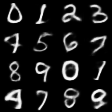
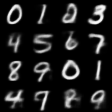
Updated Docs/ReadME/Cargo.toml (#38)

diff --git a/src/nn/mod.rs b/src/nn/mod.rs
@@ -3,16 +3,22 @@
 //! This module provides the core building blocks for constructing and
 //! training neural networks, including layers, activation functions,
 //! parameter initialisation, tensor reshaping, and sampling.
+//!
 //! ## Modules
 //!
 //! - [`activation`] - Activation functions and activation layers.
+//! - [`builder`] - Intuative builder for networks.
+//! - [`conv`] - Convolutional layer.
 //! - [`flatten`] - A layer for flattening tensors.
 //! - [`init`] - Parameter initialisation methods.
 //! - [`linear`] - Linear (fully connected) layers.
 //! - [`network`] - Neural network construction and management.
+//! - [`padding`] - Padding layer.
+//! - [`pooling`] - Pooling layer.
 //! - [`reshape`] - Layers for reshaping tensors.
 //! - [`sampling`] - Sampling layers used by probabilistic models such as VAEs.
 //! - [`softmax`] - Softmax activation and related functionality.
+//! - [`upsample`] - Upsampling layer.
 use crate::tensor::Tensor;
 use std::io::{self, Write};
 
@@ -30,11 +36,17 @@ pub mod sampling;
 pub mod softmax;
 pub mod upsample;
 
+pub use builder::NetworkBuilder;
+pub use network::Network;
+
 pub type Linear = linear::LinearLayer;
 pub type Conv2d = conv::Conv2DLayer;
 pub type Flatten = flatten::FlattenLayer;
 pub type Reshape = reshape::ReshapeLayer;
 pub type Softmax = softmax::SoftmaxLayer;
+pub type MaxPool2d = pooling::MaxPool2DLayer;
+pub type Pad2d = padding::Pad2DLayer;
+pub type Upsample2d = upsample::Upsample2DLayer;
 
 /// The common interface every layer implements
 ///
@@ -57,7 +69,7 @@ pub trait Layer {
     /// [`Layer::get_params`]. Used by optimiser to apply update
     fn set_params(&mut self, params: Vec<Tensor>);
 
-    ///Returns the layer's trainable parameters. Parameterless layers
+    /// Returns the layer's trainable parameters. Parameterless layers
     /// return an empty vector
     fn get_params(&self) -> Vec<Tensor>;
 

diff --git a/src/lib.rs b/src/lib.rs
@@ -27,7 +27,7 @@
 //! # Modules
 //!
 //! - [`tensor`] - the core `Tensor` type: matmul, permute, elementwise maps, broadcasting.
-//! - [`nn`] - layers, the [`NetworkBuilder`] and the [`nn::network::Network`] container.
+//! - [`nn`] - layers, the [`nn::NetworkBuilder`] and the [`nn::Network`] container.
 //! - [`loss`] - MSE, cross-entropy, and KL divergence.
 //! - [`optimiser`] - the Adam optimiser.
 //! - [`data`] - dataset loaders (MNIST).

diff --git a/README.md b/README.md
@@ -6,7 +6,7 @@ A neural network library built from scratch in Rust, designed to understand deep
 
 mentats is an educational framework implementing core neural network operations without external libraries. Every operation is implemented from first principles.
 
-**Current Milestone:** Convolutional Conditional VAE (CNN VAE) on MNIST. Combines the convolutional feature extraction with nearest neighbour upsampling and convolutional decoding to generate class defined digits ($0\rightarrow 9$) from random latent vectors $z \sim \mathcal{N}(0, I)$
+**Current Milestone:** Batched Convolutional Conditional VAE (Batched CNN CVAE) on MNIST. Combines 4D mini-batch tensor processing (batch size 128), multi-stage convolutional feature extraction, `im2col`/`col2im` GEMM-based convolutions, nearest-neighbour upsampling, and class-conditioned generation ($0\rightarrow 9$) from random latent vectors $z \sim \mathcal{N}(0, I)$.
 
 <p align="center">
 <img src="images/final_showcase_grid_4x4.png" alt="Generated 8s" width="300">
@@ -15,7 +15,9 @@ mentats is an educational framework implementing core neural network operations 
 
 _(Left: 4x4 class-conditioned generation showcase covering classes 0–9; Right: 16 distinct styles of digit 8 sampled across the latent space showing stroke variations)_
 
-**Previous Milestone:** Convolutional classification on MNIST at **97.69%** accuracy
+**Previous Milestone:** Convolutional Conditional VAE (CNN CVAE) on MNIST with sample-by-sample training.
+
+**Earlier Milestone:** Convolutional classification on MNIST at **97.69%** accuracy
 
 **Earlier Milestone:** Conditional VAE (CVAE) on MNIST, generates digits of a chosen class from a random latent vector, using free-bits KL to avoid posterior collapse
 
@@ -67,7 +69,58 @@ t-SNE preserves the local neighbourhood structure and gives clearer visual on th
 
 ## Network Architecture
 
-**CNN CVAE (Convolutional Conditional VAE)**
+**Batched CNN CVAE (Convolutional Conditional VAE with Mini-Batching)**
+- **Convolutional Encoder**:
+```
+Input ([batch, 784])
+  └─ ReshapeLayer ([batch, 1, 28, 28])
+  └─ Conv2DLayer (1 → 16 channels, 3x3 kernel, Kaiming normal)
+  └─ ReLU
+  └─ MaxPool2DLayer (2x2 pool, stride 2 → [batch, 16, 13, 13])
+  └─ Conv2DLayer (16 → 32 channels, 3x3 kernel, Kaiming normal)
+  └─ ReLU
+  └─ MaxPool2DLayer (2x2 pool, stride 2 → [batch, 32, 5, 5])
+  └─ FlattenLayer ([batch, 800])
+```
+- **Dense Latent Head**:
+```
+Concat [Conv Features (800), One-Hot Label (10)]
+  └─ LinearLayer (810 → 20; mu, log_var; latent_dim=10)
+  └─ GaussianSampler (reparameterization trick)
+```
+- **Convolutional Decoder**:
+```
+Concat [Latent z (10), One-Hot Label (10)]
+  └─ LinearLayer (20 → 16 x 7 x 7 = 784)
+  └─ ReshapeLayer ([batch, 16, 7, 7])
+  └─ ReLU
+  └─ Upsample2DLayer (2x nearest-neighbor → [batch, 16, 14, 14])
+  └─ Pad2DLayer (pad 1 → [batch, 16, 16, 16])
+  └─ Conv2DLayer (16 → 16 channels, 3x3)
+  └─ ReLU
+  └─ Upsample2DLayer (2x nearest-neighbor → [batch, 16, 32, 32])
+  └─ Pad2DLayer (pad 1 → [batch, 16, 34, 34])
+  └─ Conv2DLayer (16 → 8 channels, 3x3 → [batch, 8, 32, 32])
+  └─ ReLU
+  └─ Pad2DLayer (pad 1 → [batch, 8, 34, 34])
+  └─ Conv2DLayer (8 → 1 channel, 3x3 → [batch, 1, 28, 28])
+  └─ FlattenLayer ([batch, 784])
+```
+Constructed cleanly using the fluent `Network::builder()` API:
+```rust
+let mut conv_encoder = Network::builder()
+    .reshape(vec![1, 28, 28])
+    .conv2d_kaiming(1, 16, (3, 3))
+    .relu()
+    .max_pool2d()
+    .conv2d_kaiming(16, 32, (3, 3))
+    .relu()
+    .max_pool2d()
+    .flatten()
+    .build();
+```
+
+**CNN CVAE (Convolutional Conditional VAE - Unbatched)**
 
 - **Convolutional Encoder**:
 
